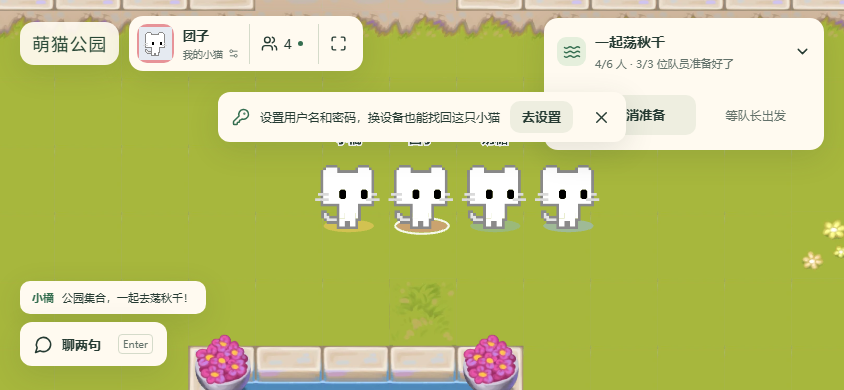
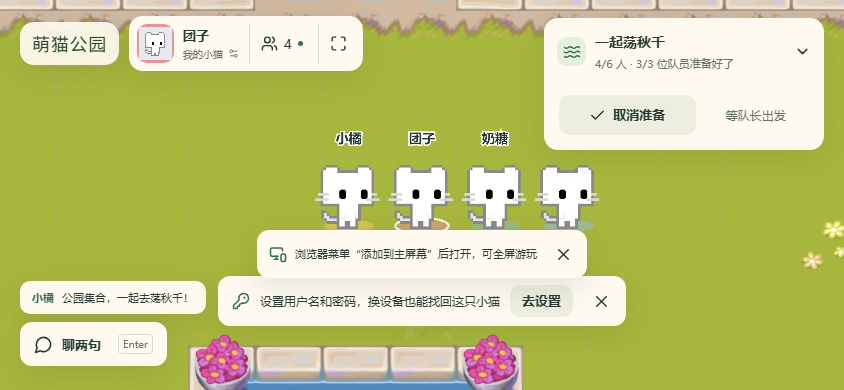
fix: 手机横屏时"设置用户名和密码"提示条遮挡队伍面板按钮
高度不超过 520px 时顶栏与队伍面板之间没有空间，提示条改到底部中间，
与横屏安装提示同时出现时安装提示叠在其上方。布局测试检查队伍按钮
左、中、右三点均未被覆盖，并重新截取 README 截图。

Changed region(s): [[0.2464, 0.5846, 0.7393, 0.8615], [0.2464, 0.2154, 0.6777, 0.3692], [0.7085, 0.2769, 0.7393, 0.3077]]

diff --git a/src/styles.css b/src/styles.css
@@ -19,6 +19,8 @@
 .install-tip{display:none;position:absolute;left:50%;bottom:max(64px,calc(env(safe-area-inset-bottom) + 50px));transform:translateX(-50%);align-items:center;gap:8px;width:max-content;max-width:min(460px,calc(100% - 380px));padding:6px 6px 6px 12px;border-radius:12px;background:var(--surface);box-shadow:var(--shadow);font-size:11px;line-height:1.5;white-space:nowrap;z-index:14}.install-tip>svg{flex-shrink:0;color:var(--green)}.install-tip .button{min-height:32px;padding:6px 10px;font-size:11px}
 @media(pointer:coarse) and (orientation:portrait){.rotate-hint{display:flex}}
 @media(pointer:coarse) and (orientation:landscape){.install-tip{display:flex}}
+/* Landscape phones have no room between the header and the party panel; prompts stack above the chat peek instead. */
+@media(max-height:520px){.account-prompt{top:auto;bottom:max(64px,calc(env(safe-area-inset-bottom) + 50px));width:max-content;max-width:calc(100% - 24px)}.account-prompt~.install-tip{bottom:max(112px,calc(env(safe-area-inset-bottom) + 98px))}}
 /* The challenge touch pad owns the bottom corners; keep the chat peek above it. */
 @media(pointer:coarse){.in-challenge .social-panel:not(.is-open){bottom:calc(max(18px,env(safe-area-inset-bottom)) + 84px)}}
 @media(prefers-reduced-motion:reduce){*,*::before,*::after{animation:none!important;transition:none!important}}

diff --git a/tests/browser.spec.ts b/tests/browser.spec.ts
@@ -128,6 +128,12 @@ test('desktop and mobile layouts render the original scene without page overflow
     await phone.screenshot({ path: '.impeccable/review/mobile-portrait.png' });
     await phone.setViewportSize({ width: 844, height: 390 });
     await expect(phone.getByTestId('rotate-hint')).toBeHidden();
+    // On a short landscape screen the prompts must not cover the party panel's action button.
+    const partyAction = phone.getByTestId('create-party');
+    const box = (await partyAction.boundingBox())!;
+    for (const x of [box.x + 8, box.x + box.width / 2, box.x + box.width - 8]) {
+      expect(await phone.evaluate(([x, y]) => !!document.elementFromPoint(x, y)?.closest('[data-testid="create-party"]'), [x, box.y + box.height / 2] as const)).toBe(true);
+    }
     // Landscape in a browser tab still suggests installing, once, until dismissed.
     await expect(phone.getByTestId('install-tip')).toBeVisible();
     await phone.getByTestId('install-tip').getByRole('button', { name: '不再提示' }).click();

diff --git a/todo.md b/todo.md
@@ -9,4 +9,3 @@
 - [ ] 校验部分纹理的平铺边缘色差，并评估前端大体积模块的按需加载；见 docs/development.md
 - [ ] 引入格式化工具（如 Prettier）并一次性格式化：src/App.tsx 等文件存在 600–1500 字符的单行，审查和 diff 困难
 - [ ] 验证计划任务 CatParkWeb 在注销后重新登录能否自动拉起服务（2026-09-28 17:45 后曾停止未拉起；2026-09-29 结束 npm start 进程树后监管脚本约 20 秒内重新构建并恢复服务，此场景已正常）
-- [ ] 手机横屏（如 844 × 390）时"设置用户名和密码"提示条遮挡右上队伍面板的按钮，需为矮屏重新安排提示位置
